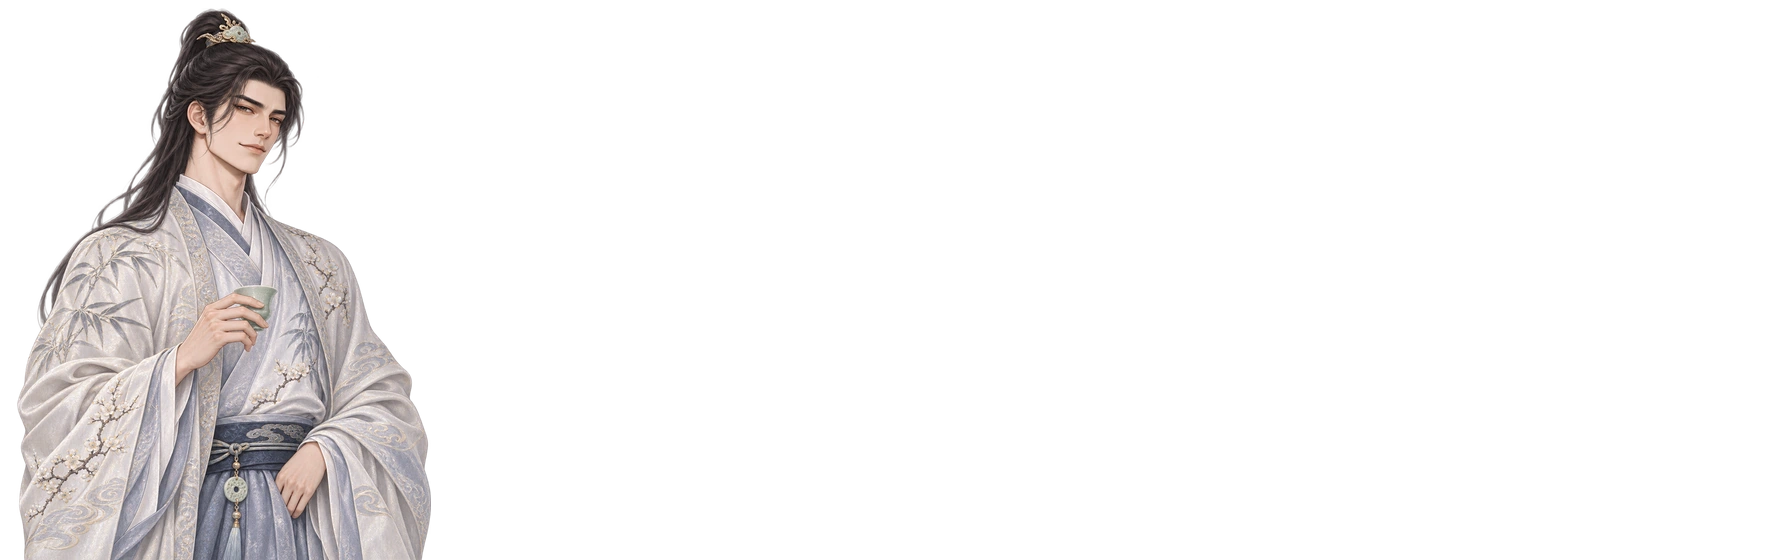
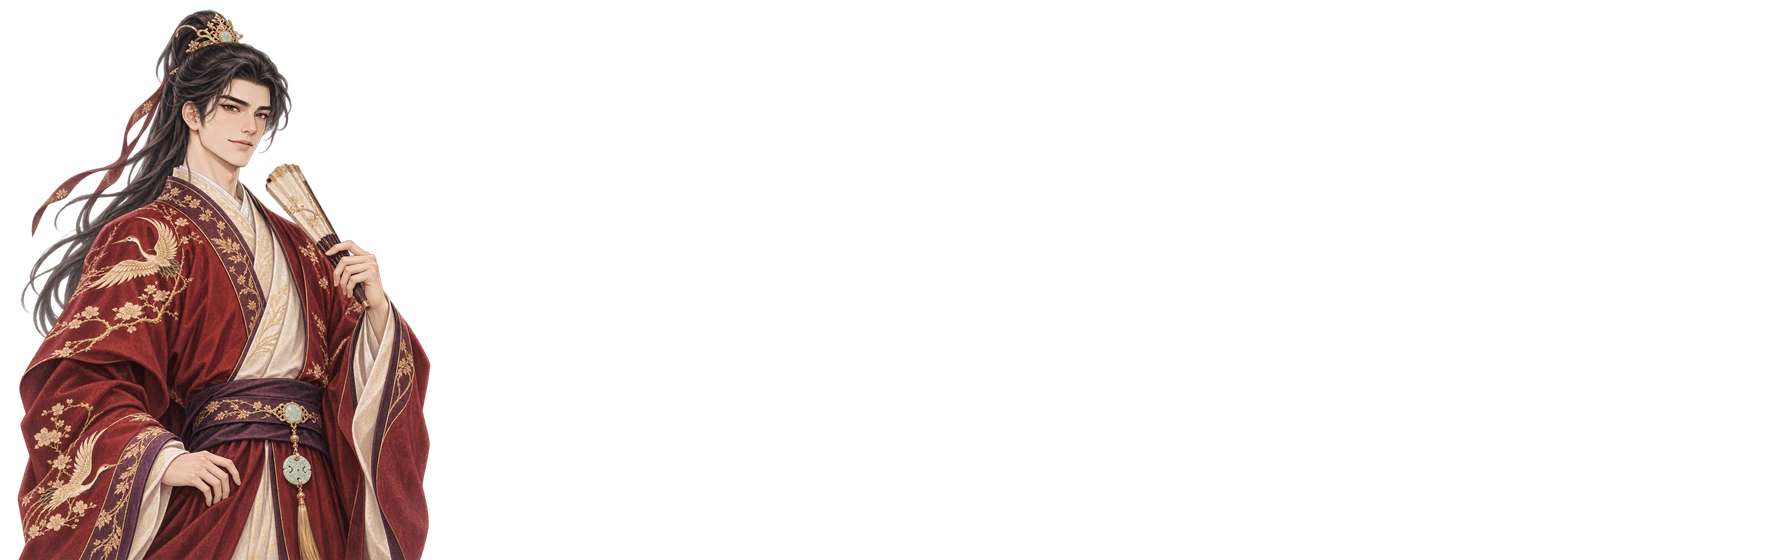
Refine Xie An portrait and retain white revision for brothers

Changed region(s): [[0.0, 0.0, 0.25, 1.0]]

diff --git a/js/portraits.js b/js/portraits.js
@@ -414,7 +414,7 @@ function portraitJewelry(rank,id){return JEWELRY[id]|| (rank===8?JEWELRY.phoenix
 // Coordinates are in the stable 112 × 140 portrait tile: brow centre and head width.
 // Half-length paintings need much smaller ornaments than the original close-ups.
 const PORTRAIT_HEADS={
-  433:[64,27,27],
+  433:[61,26,26],
   422:[51,38,27],
   248:[47,39,34],249:[59,40,34],250:[65,39,32],251:[66,38,32],252:[60,39,34],253:[54,39,34],254:[59,38,34],255:[59,39,34],
   256:[57,28,23],257:[50,31,27],258:[60,31,27],259:[56,31,27],260:[62,29,27],261:[65,30,25],262:[58,30,27],263:[59,31,27],264:[56,28,25],265:[60,28,26],266:[61,27,26],267:[50,29,27],

diff --git a/docs/capital-noble-portrait.md b/docs/capital-noble-portrait.md
@@ -1,6 +1,6 @@
-# 上京贵公子专属立绘
+# 上京贵公子谢安专属立绘
 
-当前状态：新图待用户确认，尚未上传。本次准备立绘和固定编号；下方角色机制是剧情接入说明，尚未实现。
+当前状态：已按用户反馈重新制作朱红金鹤盛装版，突出惊才绝艳、无限风流的世家公子气质；新图待用户确认，尚未上传。本次准备立绘和固定编号；下方角色机制是剧情接入说明，尚未实现。
 
 | 项目 | 约定 |
 | --- | --- |
@@ -9,7 +9,7 @@
 | 图集 | `assets/images/palace-capital-noble.webp`，第一格 |
 | 构图 | 半身至胯上；小头像从同一张图裁切 |
 | 风格参考 | 后一组锦衣卫 423–428 的细腻写实插画风格 |
-| 造型 | 月白雾蓝绣袍，竹梅云纹，青玉小冠，手持青瓷酒盏 |
+| 造型 | 朱红金鹤绣袍，月白内衫、绛紫腰封，金玉发冠，手执折扇 |
 | 随机池 | 不加入普通官员、妃子兄长、皇子或妃子池 |
 
 剧情角色创建时固定绑定：
@@ -40,6 +40,10 @@ person.portraitOverride = STORY_NPC_PORTRAITS.capitalNoble;
 
 ## 图像来源与处理
 
-原图：`exec-6365ff2b-9b14-4b03-a793-ce8137f498b8.png`。原始 RGBA 为 1086 × 1448；只做等比例缩放、透明留边和 WebP 打包，不重绘五官或首饰。原始青玉冠位于束发处，佩玉垂于腰带。
+原图：`exec-30423af5-5c4b-4d1c-ab6d-69191f9d2f6f.png`。原始 RGBA 为 1086 × 1448；只做等比例缩放、透明留边和 WebP 打包，不重绘五官或首饰。金玉发冠位于束发处，佩玉垂于腰带。
 
 图集为 1792 × 560，每格 448 × 560，后三格透明。具体缩放、偏移和原图校验值见 `capital-noble-portrait-source.json`。
+
+## 已确认改作兄长的白衣图
+
+用户已明确将清淡白衣版本 `exec-d6ee8a3b-f449-4600-a834-9e8cfff90fce.png` 改用于妃子兄长。该图已获角色用途确认，原图保留；后续接入时另分配兄长编号，不使用谢安的 433。当前未上传，也未加入兄长随机池。
